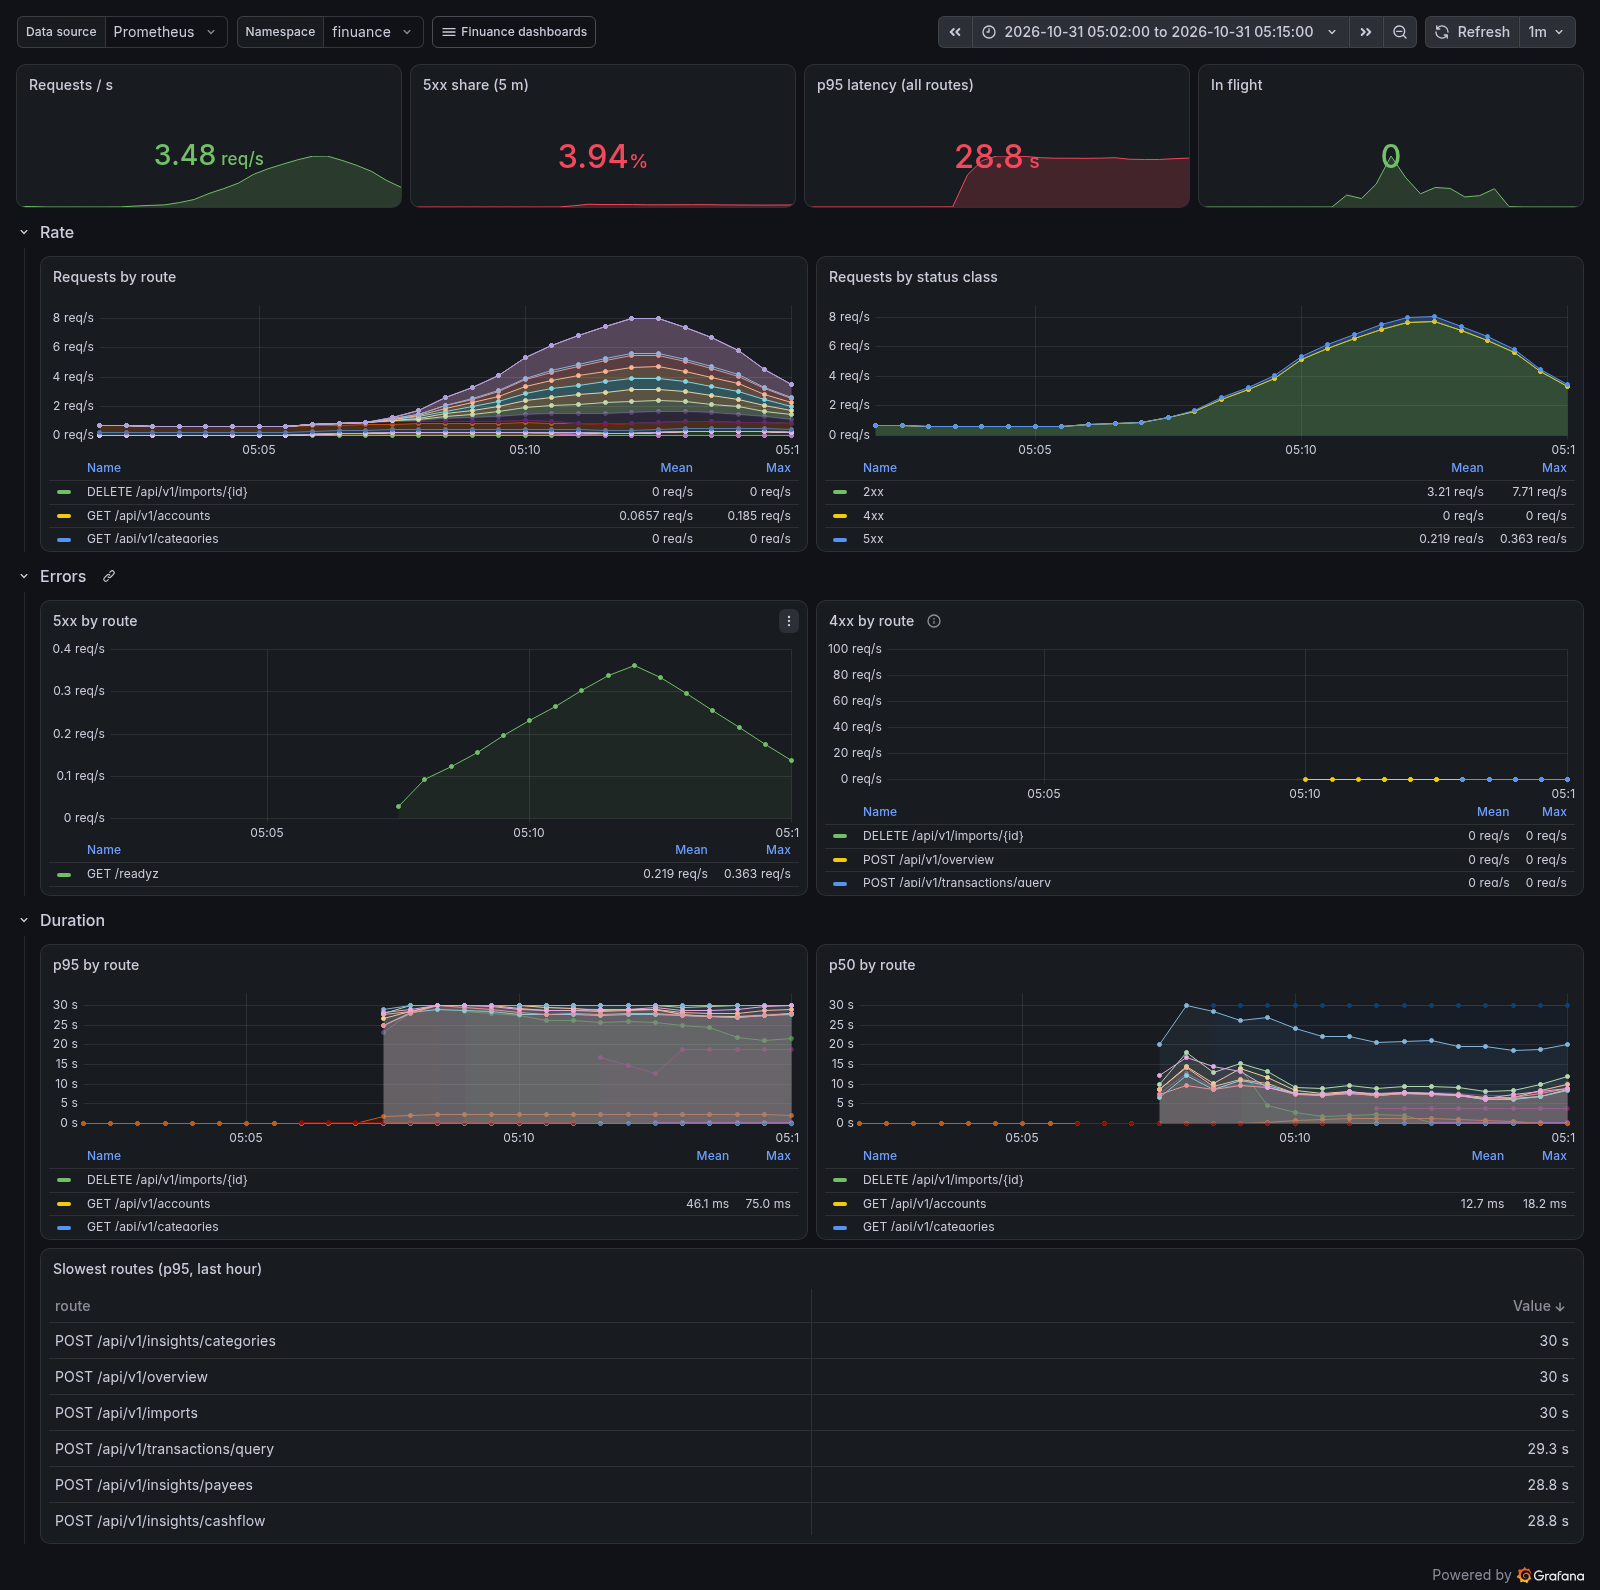
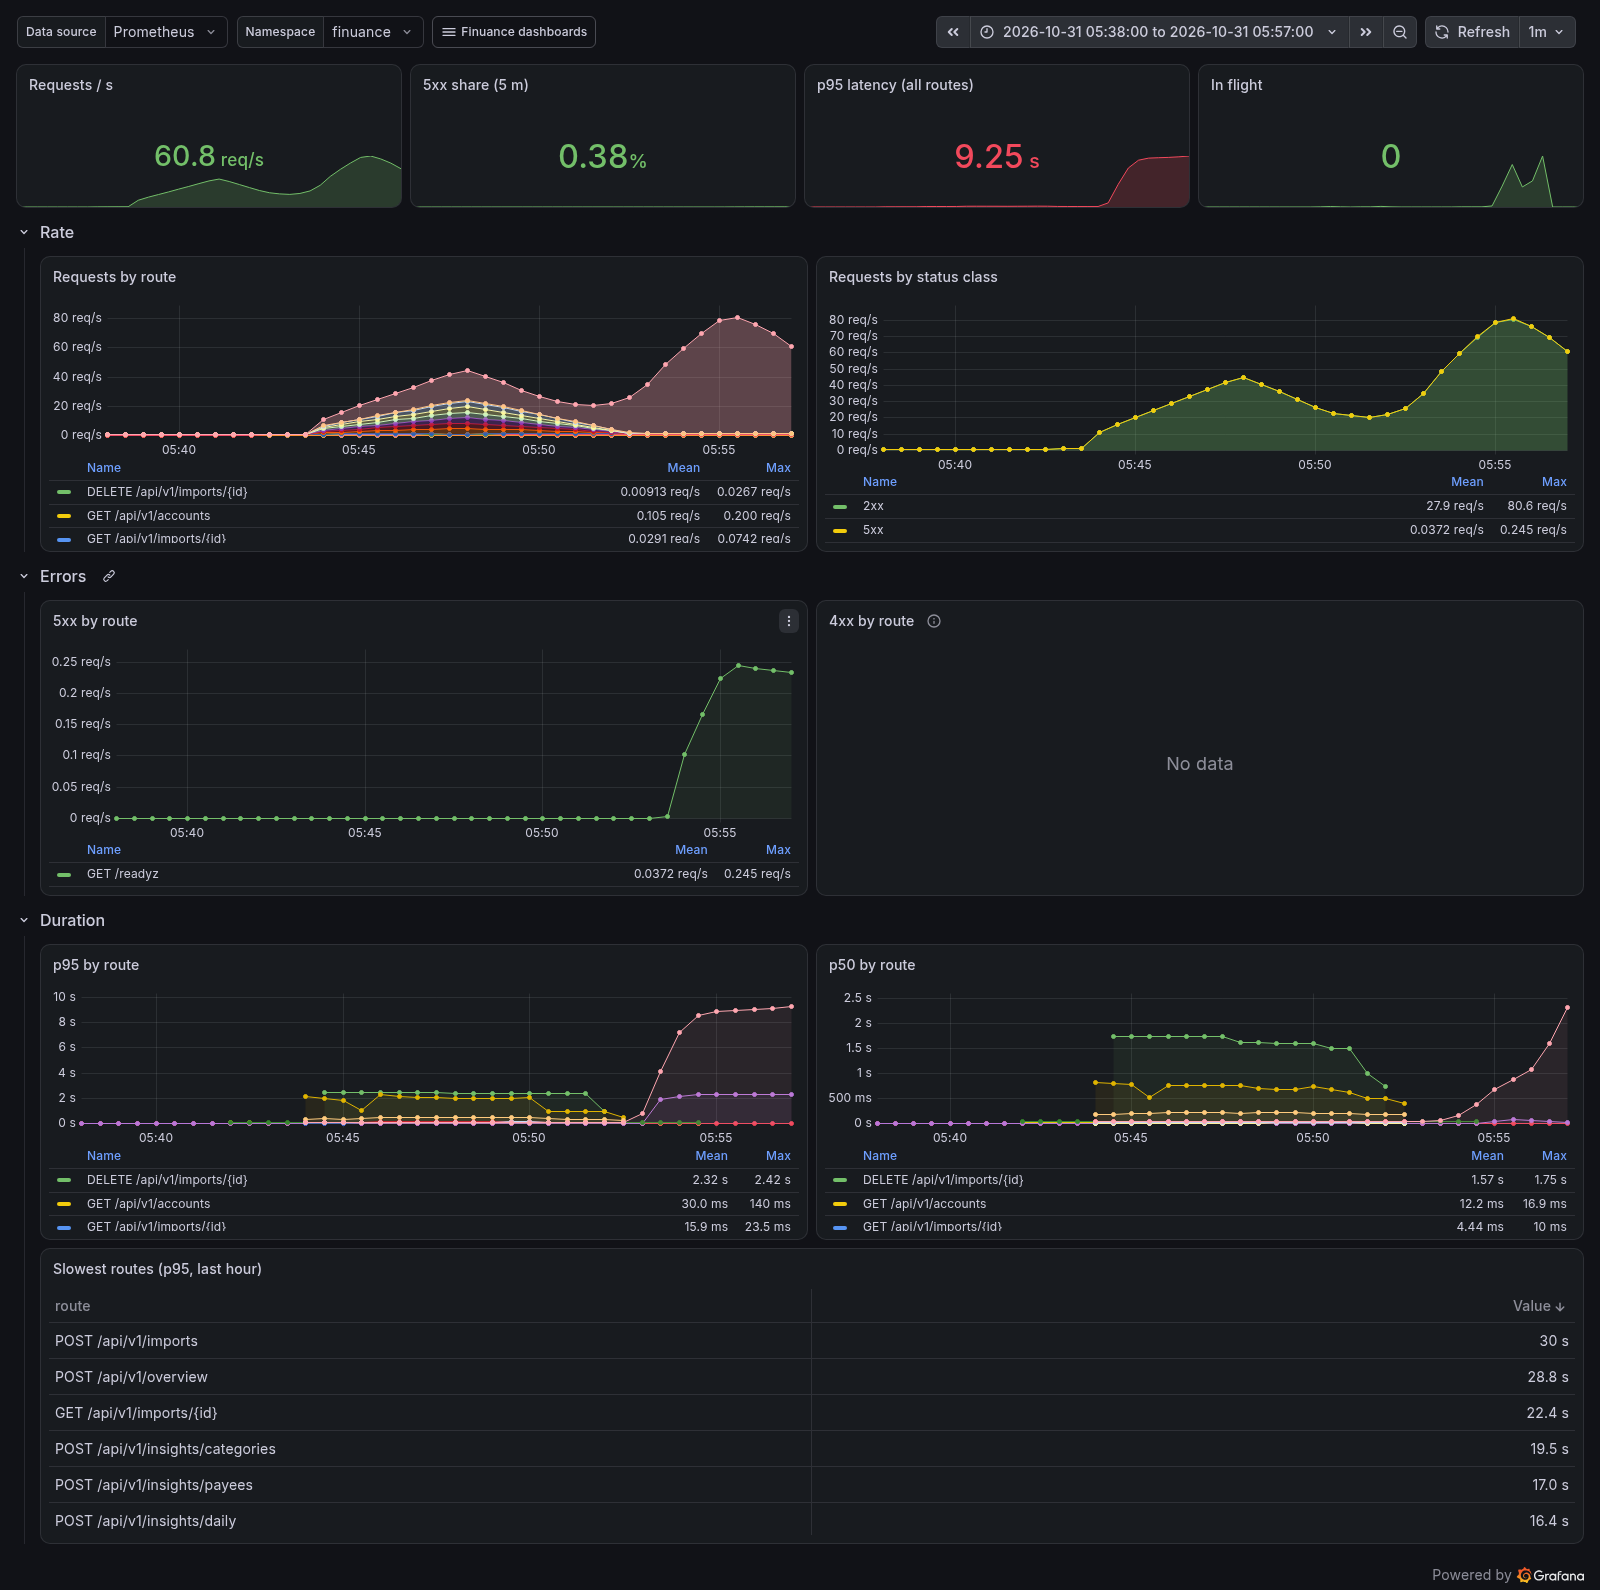
docs(perf): Phase 18 load test on the reference machine; Grafana walkthrough; 18.6 and 18.7 done [skip ci]
load: 0 of 13,308 requests failed, p95 110 ms (SLO met), 32 requests/s, after fixing the readiness
cascade the first run found (29 % failed); ramp: within the SLO up to about 77 requests/s,
saturated at about 104 with the CPU at 100 %, no failed request.

diff --git a/docs/PROGRESS.md b/docs/PROGRESS.md
@@ -76,7 +76,7 @@ Run on the reference machine (ADR 0022). Each step goes into `docs/RUNBOOK.md` (
     - [x] E1 full: 35/53 correct, p50 60 s, p95 214 s; E2 compact: 26/53, p50 38 s, p95 118 s (the compact set misses the budget, recurring, overview and proposal tools) → the full toolset; E3 running
   - [x] finding: the assistant's model client ended a stream silent for 60 s (hard-coded), and a 4 GB GPU reading an ~8,000-token prompt is silent for about 70 s before the first token, so long turns always timed out (the first eval run stopped after 2 questions): `FINUANCE_AI_IDLE_TIMEOUT` (default 60 s, at most `FINUANCE_AI_TIMEOUT`; `TestIdleTimeout`), the reference machine's overlay sets 300 s / 150 s
   - [x] finding: with Ollama 0.40, `qwen3:4b` (the hybrid model) can't stop thinking: `/no_think`, Ollama's `think: false` (OpenAI and native API) are ignored, and `reasoning_effort: none` only moves the thinking into the answer text; every answer carries 30–50 s of reasoning. `qwen3:4b-instruct-2507` (no thinking) answers in about half the time; its first probe call asked for `2025-02-29` (the evals measure such slips). Default model and eval runs: our Product Engineer's decision
-- [ ] 18.6 observability: kube-prometheus-stack + Tempo, `deploy/k8s/observability`, email receiver (SMTP password sealed) and a test alert, Grafana walkthrough screenshots
+- [x] 18.6 observability: kube-prometheus-stack + Tempo, `deploy/k8s/observability`, email receiver (SMTP password sealed) and a test alert, Grafana walkthrough screenshots
   - [x] Argo CD apps `tempo` (own manifests, Tempo 2.9.0 by digest: the chart is deprecated; OTLP/HTTP only, 72 h, read-only, NetworkPolicy), `kube-prometheus-stack` (92.16.1, one-node sizing, k3s's built-in components not scraped, selects Finuance's PodMonitors/rules/AlertmanagerConfig) and `finuance-observability` (dashboards, rules, e-mail receiver; addresses from the private overlay); `make helm-lint` renders the layering; RUNBOOK step 13
   - [x] alert mail from a separate sending account (Gmail app password, `seal-secrets.sh homelab smtp`); Grafana's admin login sealed (`seal-secrets.sh homelab grafana`, the chart's default is public; CI round trip for both)
   - [x] found on the cluster: the app's OTLP setting is the full traces URL (the homelab's bare `:4318` got 404 for every export); homelab and CI values fixed, the chart schema and a `check-helm` case refuse a URL without a path
@@ -84,12 +84,12 @@ Run on the reference machine (ADR 0022). Each step goes into `docs/RUNBOOK.md` (
   - [x] test alert: Alertmanager sent it (1 e-mail, 0 failed); our Product Engineer confirmed it arrived (2026-10-31)
   - [x] found with the first screenshots: CloudNativePG's metrics role couldn't connect to the `finuance` database (the bootstrap revokes `CONNECT` from `PUBLIC`), so the PostgreSQL dashboard's connection, transaction, size, replication and archiver panels were empty: `GRANT CONNECT ON DATABASE finuance TO pg_monitor` in every bootstrap copy (statistics only; `TestWhoMayConnect`), a one-time grant for existing clusters in the RUNBOOK; the backup panel no longer draws a never-failed backup at 1970; `tools/observability/grafana-screenshots.mjs` (Playwright, signs in through the port-forward)
   - [x] found by the first `load` run (2026-10-31): the api's availability read 100 % while 29 % of requests failed at the ingress (Traefik 503s while no api pod was ready, timeouts): Traefik scraped (`ingress.traefik` in the observability chart: PodMonitor, router labels in `host/traefik-config.yaml`), `FinuanceIngressErrors` (> 5 % 5xx at the ingress for 5 m) and `FinuanceApiNoReadyPods` (page, promtool tests), SLO dashboard row "At the ingress", docs/SLO.md; Grafana stalled near its 512 MiB limit under load → 1 GiB
-  - [ ] Grafana walkthrough screenshots (`tools/observability/grafana-screenshots.mjs`, a past window works too) on the 18.7 rerun
-- [ ] 18.7 load test on the reference machine (`make loadtest` `load` + `ramp`) → `docs/perf.md` "Phase 18" (the hardware described in general terms)
+  - [x] Grafana walkthrough: `docs/screenshots/grafana/homelab/` (six dashboards over the 18.7 `load` + `ramp` rerun, `tools/observability/grafana-screenshots.mjs`); Traefik's router names carry the entry point (`websecure-…`), pattern fixed; the ingress panel compares with the api's SLO routes only
+- [x] 18.7 load test on the reference machine (`make loadtest` `load` + `ramp`) → `docs/perf.md` "Phase 18" (the hardware described in general terms)
   - [x] 50 load-test users × 20,187 transactions seeded in the api pod (10 min 41 s; 4.09 GB database); password random, outside git
   - [x] first `load` run failed: 29 % of 3,330 requests failed, p95 24 s, 7.6 requests/s. Cause: a cascade. The database read from disk (128 MB shared buffers for 4 GB, cache hit ratio ≈ 60 %), so every api replica's `/readyz` (database ping and migration version through the same saturated pool, 1 s probe) failed together and both left the Service; Traefik then answered 503
   - [x] fixes: `/readyz` reports a check that only timed out within 30 s of its last success as `busy` instead of failing (real errors and migrations behind still 503 at once; `TestReadyzBusyDatabase`, `TestReadinessTimeoutsAreDeadlines`; reaches the homelab with the next image), api/worker readiness probes 3 s, PostgreSQL sized for the homelab (1 GB shared buffers per instance, `effective_cache_size` 3 GB, `work_mem` 16 MB, pods 2–4 GiB)
-  - [ ] rerun `load` and `ramp`, `docs/perf.md` "Phase 18", delete the load-test users
+  - [x] rerun (2026-10-31): `load` 13,308 requests, 0 failed, p95 110 ms (SLO ✓), 32 requests/s, 11 imports; `ramp` within the SLO up to ≈ 77 requests/s, saturated at ≈ 104 with the CPU at 100 %, no failed request, replicas stayed ready; `docs/perf.md` "Phase 18"; the 50 load-test users deleted through the API, the password file removed
 - [ ] 18.8 OpenVAS (Greenbone Community containers) against the instance → `docs/security-scan.md`; image admission policy (KSV-0125) decided or kept for Phase 19
 - [ ] 18.9 deferred hands-on checks with the real data (our Product Engineer): real legacy backup migration, rules and transfer pairs on the real accounts, group budget, rule suggestions, 60 fps scrolling
 - [ ] Gate (our Product Engineer): every Argo CD app back on `targetRevision: main` (`make helm-lint` on the merge checks it); deploy via the `gitops-bump` PR merge, roll back via a revert, restore drill notes, Grafana walkthrough, `security-scan.md` with the OpenVAS section; one full CI run on the branch first
@@ -539,6 +539,7 @@ Second push (rehearsal and LLM decision):
 - Overview under load (p95 1.2 s at 50 users in the sandbox): cache the month aggregates, size `shared_buffers` (docs/perf.md "Phase 17").
 
 ## Session log
+- 2026-10-31 — 18.6 and 18.7 done. Monitoring installed by Argo CD (kube-prometheus-stack, Tempo, Finuance dashboards and rules, Gmail alerts; test alert received); found on the way: the OTLP endpoint needs its path, CloudNativePG's metrics role needs `CONNECT` (`pg_monitor`), Grafana's default password and its 512 MiB limit. The first homelab load run failed 29 % of its requests while the api's availability read 100 % (readiness cascade over an undersized database, refused at the ingress); fixed (PostgreSQL sizing, readiness probes and `/readyz` busy grace, ingress monitoring and alerts); rerun 0 failed, p95 110 ms, SLO up to ≈ 77 requests/s. The machine shut down once: everything came back by itself, E3 (thinking model) was lost and is paused at our Product Engineer's request (`~/.local/state/finuance-evals/run-e3.sh`). Next: E3 and the 18.5 model decision, then 18.8 (OpenVAS).
 - 2026-10-31 — 18.4 done: `tools/homelab-drill.sh`; restore drill RTO 71 s / RPO 96 s (rehearsal 75 / 51 s), pod kills under load 23,177 requests with 0 failed (TLS verified); HTTP now redirects to HTTPS. Next: 18.5 (LLM: llm-probe against Ollama, SSE through Traefik, evals).
 - 2026-10-31 — 18.3 done: `v0.2.0-rc.1` released after a full pre-release scan (x/net, zlib, musl fixed; a `[skip ci]` tag that never released, redone); Argo CD on the phase branch over SSH with deploy keys; platform, sealed secrets, RustFS, PostgreSQL with WAL archiving and a first backup, the app over `https://<host>` with a first account and the smoke scripts green. Found and fixed on the way: migrations losing kube-router's first-connection race, sync waves not waiting for the manually synced database, the client address lost in k3s's load balancer (Traefik now on host ports). Next: 18.4 (restore drill, k6 during pod kills).
 - 2026-10-30 (evening) — 18.1 done: system update + reboot (all checks green, k3s-lan before k3s), Ollama on the GPU through Vulkan with flash attention and a q8_0 KV cache (2.7× the CPU at an 8k context); CUDA 12 measured as an alternative (prompts read twice as fast). Machine details moved to the private repository `finuance-env`; this repository now has placeholders and host-file templates. Next: 18.2 (homelab values, ADR for the second Argo CD source, Tailscale certificate script).

diff --git a/docs/perf.md b/docs/perf.md
@@ -512,3 +512,56 @@ Also found by the load test and fixed:
   handler ran); they are named after the route again (`TestSpanNamedAfterRoute`);
 - every k6 virtual user's sign-in rotated the previous user's session in a shared cookie jar (a
   test-script bug: each sign-in now has its own jar).
+
+## Phase 18: load test on the reference machine (task 18.7)
+
+Measured on 2026-10-31 on the reference environment (ADR 0022: single-node k3s on a
+machine with 8 CPU threads and a small NVIDIA GPU; details in the private environment repository): the released
+`0.2.0-rc.1` images behind Traefik over HTTPS (tailnet), 2–4 api replicas (HPA), the worker, two
+PostgreSQL 18.6 instances (CloudNativePG) on the same node, the monitoring stack (Prometheus,
+Grafana, Tempo) and k6 1.8.2 in Docker on the same machine. Same data and profiles as Phase 17: 50
+users × 20,187 transactions (`seed-demo -users=50 -rows=20000` in an api pod, 10 min 41 s), a 4.1 GB
+database. The users were deleted afterwards.
+
+### First run: a cascade (found and fixed)
+
+| | first run | after the fixes |
+|---|---|---|
+| requests (5 minutes of `load`) | 3,330 | 13,308 |
+| failed | **29 %** | **0** |
+| median / p95 (SLO routes) | 3.6 s / 23.7 s ✗ | 32 ms / **110 ms** ✓ |
+| throughput | 7.6 requests/s | 32 requests/s |
+| imports of 5,000 rows | 1 | 11 |
+| cache hit ratio (mean) | ≈ 60 % | 86 % |
+| longest transaction | 44 s | < 1 s |
+
+The database had the chart's 128 MB of shared buffers for 4 GB of data and read most pages from
+disk. Every api replica's `/readyz` checks the database through the same, now saturated, pool, and
+the probe allowed 1 s: both replicas failed it together, left the Service, and Traefik answered 503
+(974 times) to requests that never reached the api. The api's availability read 100 % throughout
+(it only counts what reaches it), which is why the ingress is now monitored too (docs/SLO.md,
+Phase 18.6). Fixes: PostgreSQL sized for the homelab (`homelab/db-values.yaml`: 1 GB shared buffers
+per instance, `effective_cache_size` 3 GB, `work_mem` 16 MB), readiness probes with 3 s, and
+`/readyz` reporting a check that only timed out within 30 s of its last success as `busy` instead of
+failing (in the next image; the rerun above ran without it).
+
+### Breaking point (`PROFILE=ramp`)
+
+Table views without think time, 10 → 320 per second. Rate and p95 of the SLO routes per minute,
+from Prometheus:
+
+| SLO requests/s | p95 | under 300 ms | node CPU busy |
+|---|---|---|---|
+| 13 | 98 ms | 97 % | 17 % |
+| 38 | 84 ms | 100 % | 26 % |
+| 77 | 91 ms | 100 % | 53 % |
+| 104 (saturated) | 4.9 s | 15 % | 100 % |
+
+Within the SLO up to about 77 requests/s (Phase 17 sandbox: 45), saturated at about 104 (57) with
+every CPU thread busy: the limit is now the machine's CPU (shared with k6 and the monitoring stack),
+not the database. No request failed at any rate, and the api replicas stayed ready (the HPA went
+from 3 to 4). Grafana walkthrough of both runs: `docs/screenshots/grafana/homelab/`.
+
+![SLOs during load and ramp](screenshots/grafana/homelab/finuance-slo.png)
+![API](screenshots/grafana/homelab/finuance-api.png)
+![PostgreSQL](screenshots/grafana/homelab/finuance-postgres.png)
